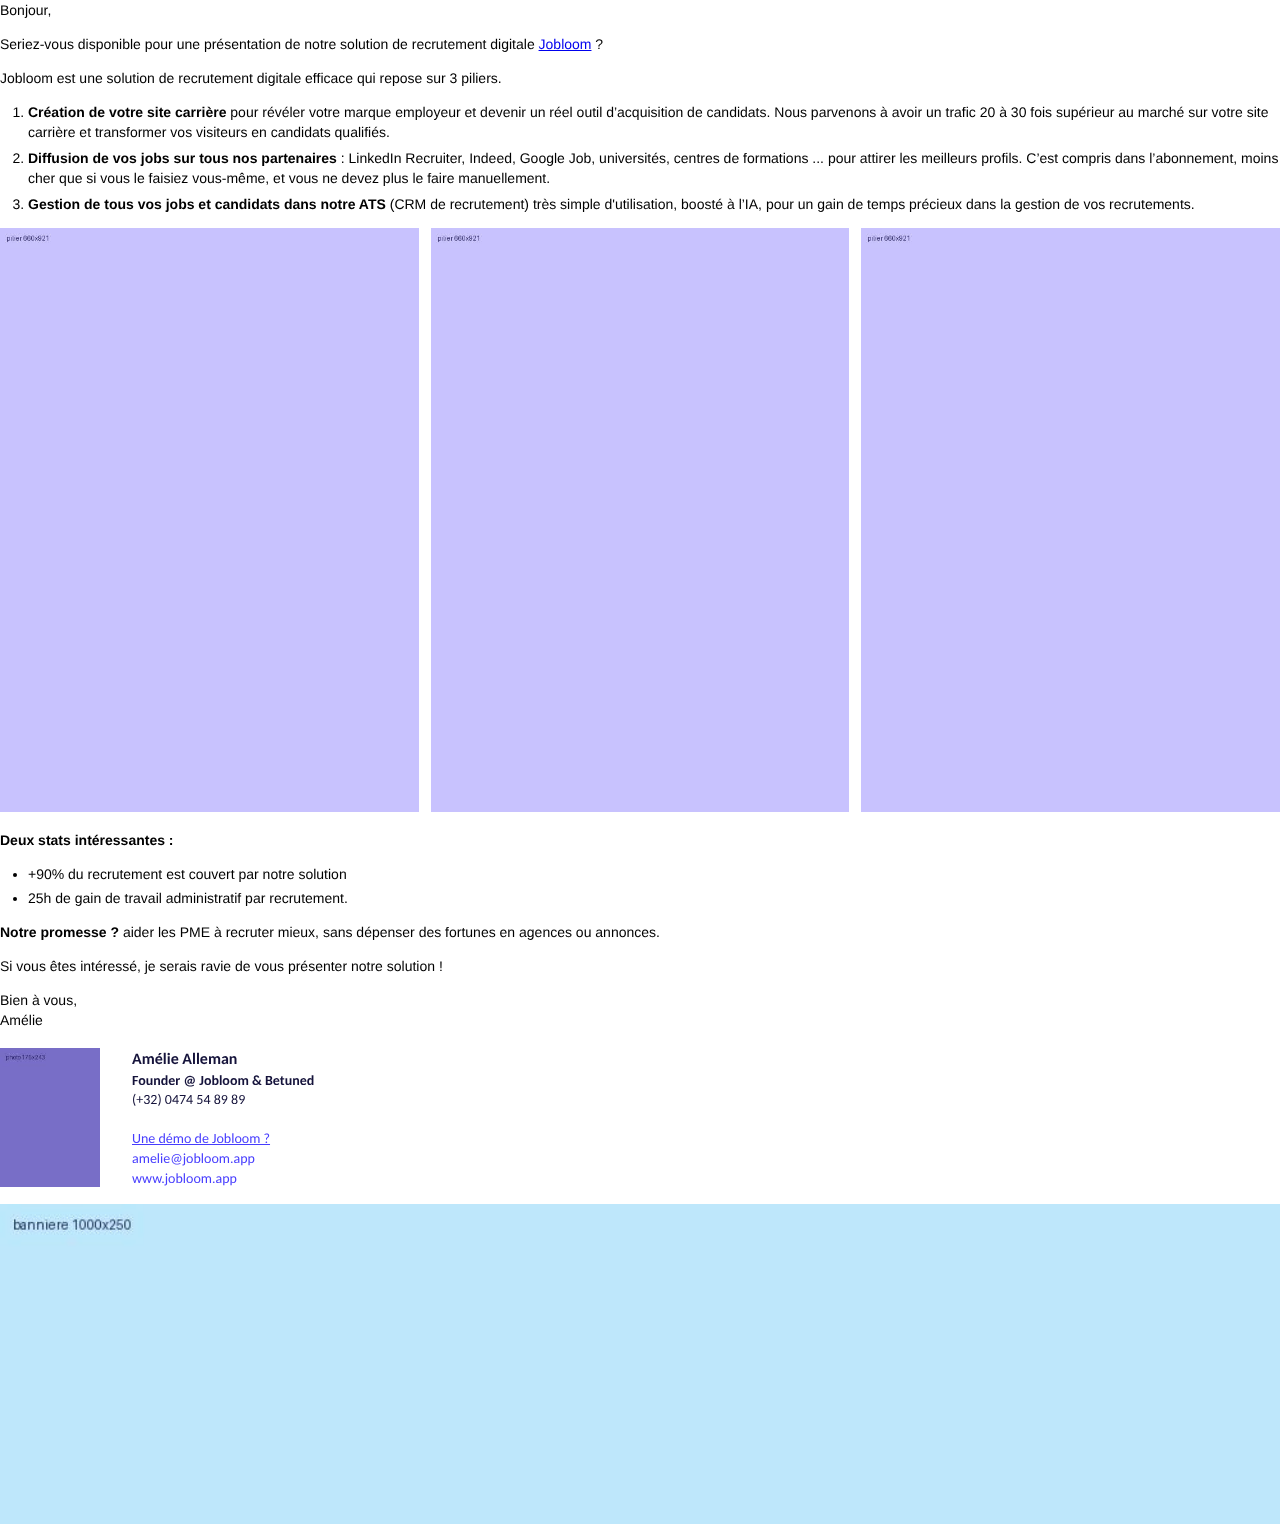
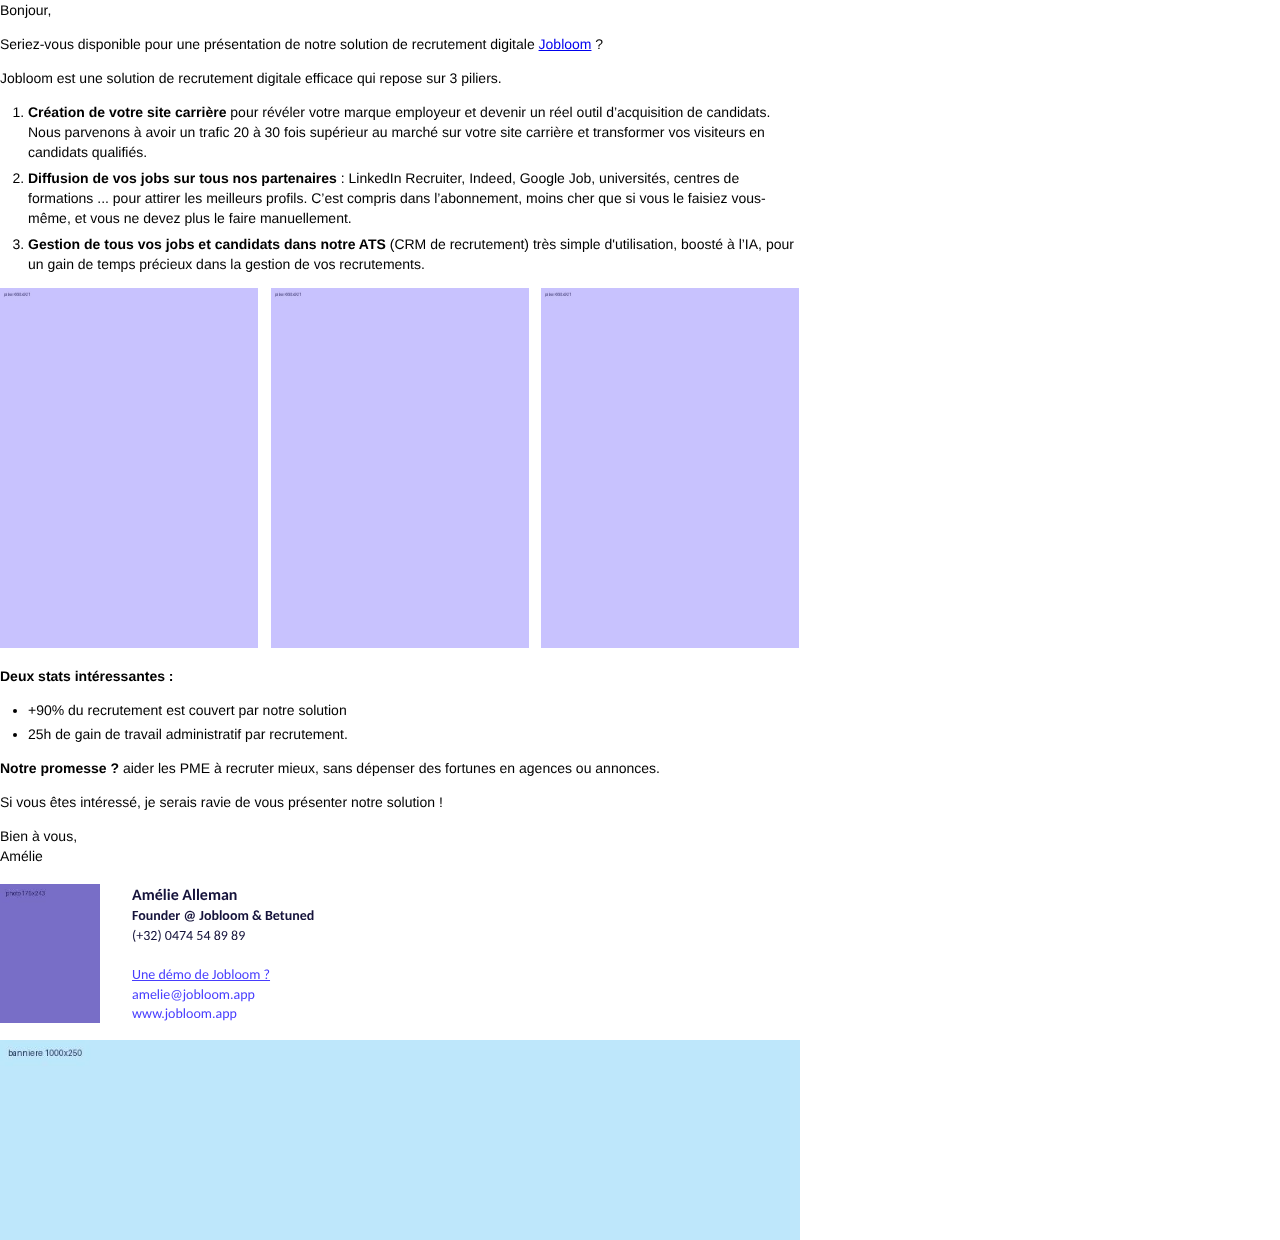
Email Amélie : application du prompt (800 px, tailles d'images, version texte)
Claude-Session: https://claude.ai/code/session_01XTeiUwKp5X2MxE8FSKHjU9

diff --git a/email-livrable/email_1st_Amelie_final.html b/email-livrable/email_1st_Amelie_final.html
@@ -29,7 +29,7 @@ li{margin-left:0 !important;}</style>
 <table role="presentation" cellpadding="0" cellspacing="0" border="0" width="100%" style="border-collapse:collapse;width:100%">
 <tr><td class="wrap" align="left" style="padding:0">
 <!--[if mso]><table role="presentation" width="800" cellpadding="0" cellspacing="0" border="0"><tr><td><![endif]-->
-<div class="txt" style="width:100%;font-family:Arial,Helvetica,sans-serif;font-size:14px;line-height:20px;mso-line-height-rule:exactly;color:#000000">
+<div class="txt" style="width:100%;max-width:800px;font-family:Arial,Helvetica,sans-serif;font-size:14px;line-height:20px;mso-line-height-rule:exactly;color:#000000">
 
 <p style="margin:0 0 14px 0">Bonjour,</p>
 <p style="margin:0 0 14px 0">Seriez-vous disponible pour une présentation de notre solution de recrutement digitale <a href="https://www.jobloom.be/">Jobloom</a>&nbsp;?</p>
@@ -39,7 +39,7 @@ li{margin-left:0 !important;}</style>
 <li style="margin:0 0 6px 0"><b>Diffusion de vos jobs sur tous nos partenaires&nbsp;</b>: LinkedIn Recruiter, Indeed, Google Job, universités, centres de formations ... pour attirer les meilleurs profils. C’est compris dans l’abonnement, moins cher que si vous le faisiez vous-même, et vous ne devez plus le faire manuellement.</li>
 <li style="margin:0"><b>Gestion de tous vos jobs et candidats dans notre ATS</b> (CRM de recrutement) très simple d'utilisation, boosté à l’IA, pour un gain de temps précieux dans la gestion de vos recrutements.</li>
 </ol>
-<table role="presentation" class="cards" cellpadding="0" cellspacing="0" border="0" width="100%" style="border-collapse:collapse;width:100%;margin:4px 0 18px 0"><tr><td class="cardtd" width="33%" valign="top" style="width:33.33%;padding:0 8px 0 0"><a href="https://www.jobloom.app/" style="text-decoration:none"><!--[if mso]><img src="https://jobloom-landing-pages-massimoharnisfeger-hues-projects.vercel.app/signature/pilier-1.jpg" width="258" alt="Site Carrière" style="display:block;width:258px;border:0"><![endif]--><!--[if !mso]><!--><img src="https://jobloom-landing-pages-massimoharnisfeger-hues-projects.vercel.app/signature/pilier-1.jpg" width="218" alt="Site Carrière" style="display:block;width:100%;height:auto;border:0"><!--<![endif]--></a></td><td class="cardtd" width="33%" valign="top" style="width:33.33%;padding:0 4px"><a href="https://www.jobloom.app/" style="text-decoration:none"><!--[if mso]><img src="https://jobloom-landing-pages-massimoharnisfeger-hues-projects.vercel.app/signature/pilier-2.jpg" width="258" alt="Multidiffusion en un clic" style="display:block;width:258px;border:0"><![endif]--><!--[if !mso]><!--><img src="https://jobloom-landing-pages-massimoharnisfeger-hues-projects.vercel.app/signature/pilier-2.jpg" width="218" alt="Multidiffusion en un clic" style="display:block;width:100%;height:auto;border:0"><!--<![endif]--></a></td><td class="cardtd" width="33%" valign="top" style="width:33.33%;padding:0 0 0 8px"><a href="https://www.jobloom.app/" style="text-decoration:none"><!--[if mso]><img src="https://jobloom-landing-pages-massimoharnisfeger-hues-projects.vercel.app/signature/pilier-3.jpg" width="258" alt="Gestion des candidats" style="display:block;width:258px;border:0"><![endif]--><!--[if !mso]><!--><img src="https://jobloom-landing-pages-massimoharnisfeger-hues-projects.vercel.app/signature/pilier-3.jpg" width="218" alt="Gestion des candidats" style="display:block;width:100%;height:auto;border:0"><!--<![endif]--></a></td></tr></table>
+<table role="presentation" class="cards" cellpadding="0" cellspacing="0" border="0" width="100%" style="border-collapse:collapse;width:100%;margin:4px 0 18px 0"><tr><td class="cardtd" width="33%" valign="top" style="width:33.33%;padding:0 8px 0 0"><a href="https://www.jobloom.app/" style="text-decoration:none"><!--[if mso]><img src="https://jobloom-landing-pages-massimoharnisfeger-hues-projects.vercel.app/signature/pilier-1.jpg" width="258" height="360" alt="Site Carrière" style="display:block;width:258px;height:360px;border:0"><![endif]--><!--[if !mso]><!--><img src="https://jobloom-landing-pages-massimoharnisfeger-hues-projects.vercel.app/signature/pilier-1.jpg" width="660" height="921" alt="Site Carrière" style="display:block;width:100%;max-width:258px;height:auto;border:0"><!--<![endif]--></a></td><td class="cardtd" width="33%" valign="top" style="width:33.33%;padding:0 4px"><a href="https://www.jobloom.app/" style="text-decoration:none"><!--[if mso]><img src="https://jobloom-landing-pages-massimoharnisfeger-hues-projects.vercel.app/signature/pilier-2.jpg" width="258" height="360" alt="Multidiffusion en un clic" style="display:block;width:258px;height:360px;border:0"><![endif]--><!--[if !mso]><!--><img src="https://jobloom-landing-pages-massimoharnisfeger-hues-projects.vercel.app/signature/pilier-2.jpg" width="660" height="921" alt="Multidiffusion en un clic" style="display:block;width:100%;max-width:258px;height:auto;border:0"><!--<![endif]--></a></td><td class="cardtd" width="33%" valign="top" style="width:33.33%;padding:0 0 0 8px"><a href="https://www.jobloom.app/" style="text-decoration:none"><!--[if mso]><img src="https://jobloom-landing-pages-massimoharnisfeger-hues-projects.vercel.app/signature/pilier-3.jpg" width="258" height="360" alt="Gestion des candidats" style="display:block;width:258px;height:360px;border:0"><![endif]--><!--[if !mso]><!--><img src="https://jobloom-landing-pages-massimoharnisfeger-hues-projects.vercel.app/signature/pilier-3.jpg" width="660" height="921" alt="Gestion des candidats" style="display:block;width:100%;max-width:258px;height:auto;border:0"><!--<![endif]--></a></td></tr></table>
 <p style="margin:0 0 14px 0"><b>Deux stats intéressantes&nbsp;:</b></p>
 <ul class="list" style="margin:0 0 14px 0;padding-left:28px">
 <li style="margin:0 0 4px 0">+90% du recrutement est couvert par notre solution</li>
@@ -63,8 +63,8 @@ li{margin-left:0 !important;}</style>
 </tr>
 </table>
 <table role="presentation" cellpadding="0" cellspacing="0" border="0" width="100%" style="border-collapse:collapse;width:100%;margin:16px 0 0 0"><tr><td align="left" style="padding:0"><a href="https://www.jobloom.app/agenda" style="text-decoration:none">
-<!--[if mso]><img src="https://jobloom-landing-pages-massimoharnisfeger-hues-projects.vercel.app/signature/banniere-jobloom.jpg" width="800" alt="Recruter, c'est cher, long et compliqué. Mais tellement moins avec Jobloom" style="display:block;width:800px;border:0"><![endif]-->
-<!--[if !mso]><!--><img src="https://jobloom-landing-pages-massimoharnisfeger-hues-projects.vercel.app/signature/banniere-jobloom.jpg" width="1000" alt="Recruter, c'est cher, long et compliqué. Mais tellement moins avec Jobloom" style="display:block;width:100%;height:auto;border:0"><!--<![endif]-->
+<!--[if mso]><img src="https://jobloom-landing-pages-massimoharnisfeger-hues-projects.vercel.app/signature/banniere-jobloom.jpg" width="800" height="200" alt="Recruter, c'est cher, long et compliqué. Mais tellement moins avec Jobloom" style="display:block;width:800px;height:200px;border:0"><![endif]-->
+<!--[if !mso]><!--><img src="https://jobloom-landing-pages-massimoharnisfeger-hues-projects.vercel.app/signature/banniere-jobloom.jpg" width="1000" height="250" alt="Recruter, c'est cher, long et compliqué. Mais tellement moins avec Jobloom" style="display:block;width:100%;max-width:800px;height:auto;border:0"><!--<![endif]-->
 </a></td></tr></table>
 
 </div>
